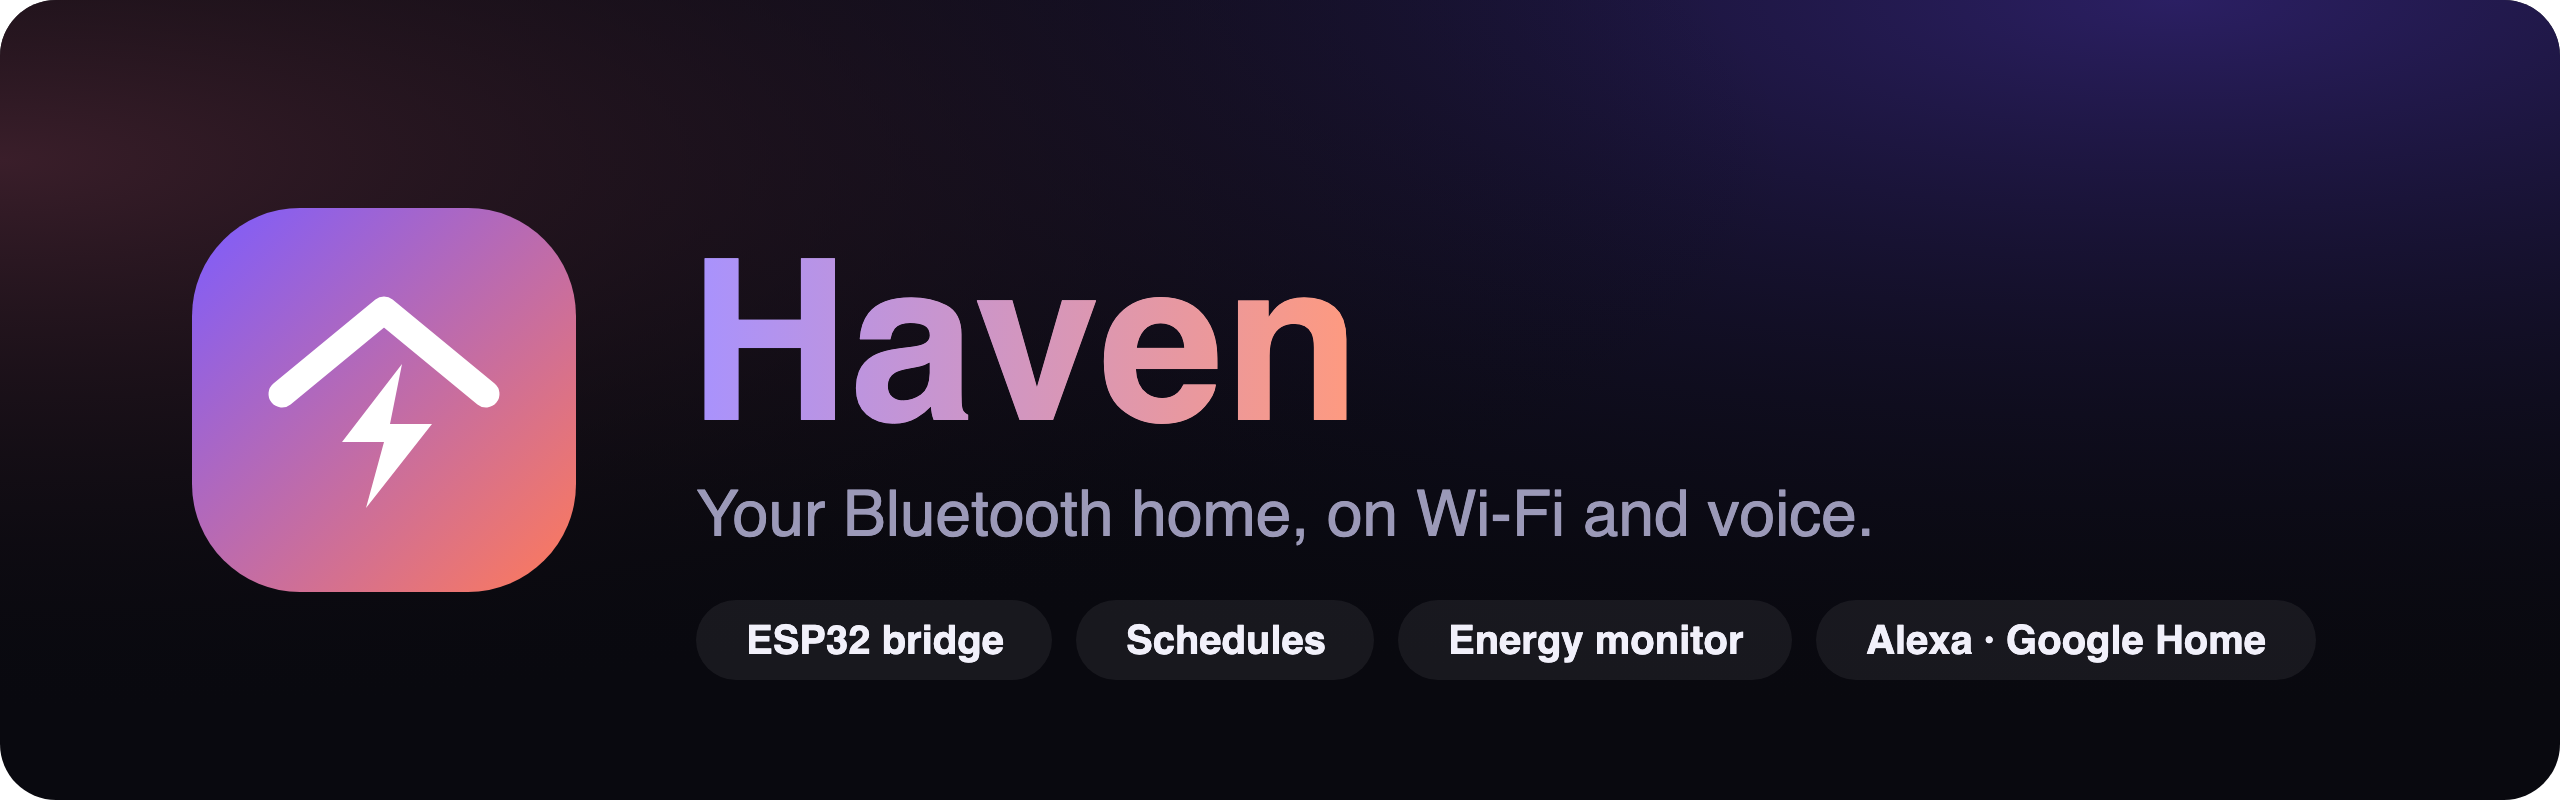
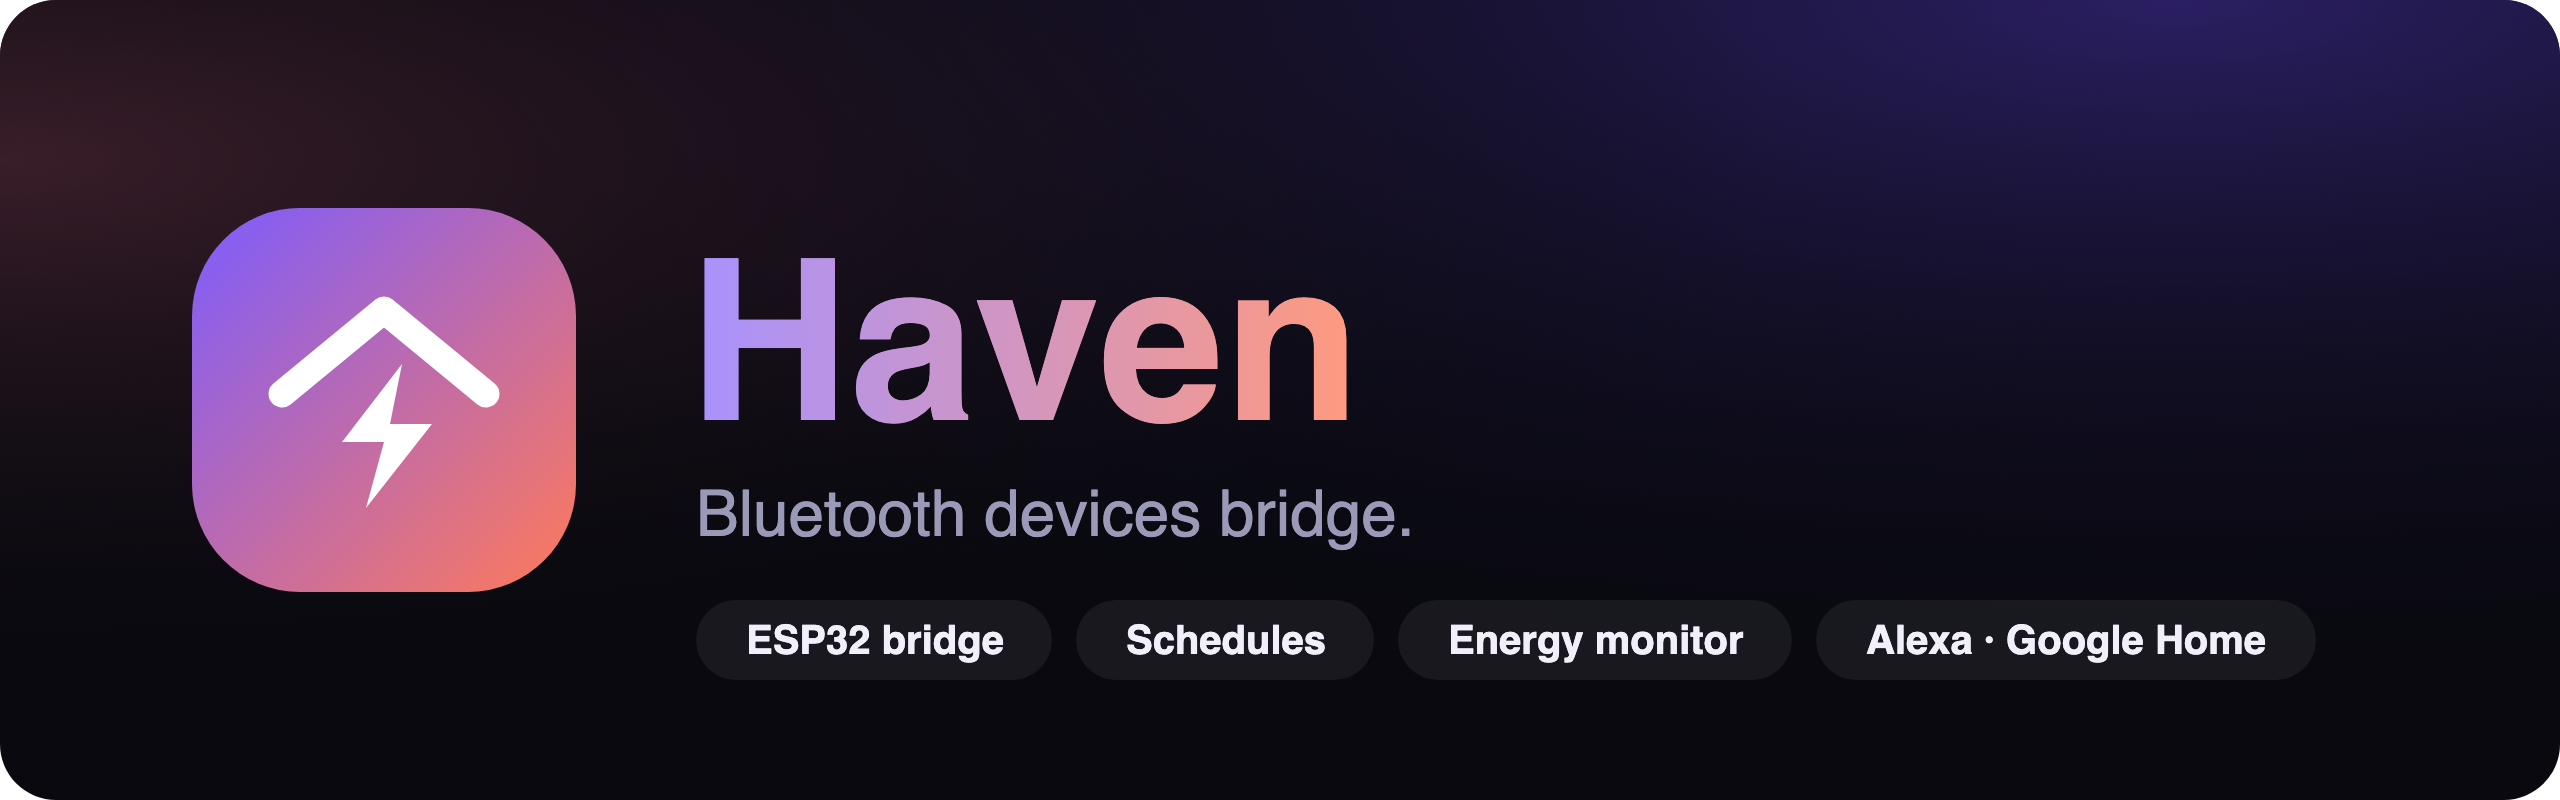
Tagline: Bluetooth devices bridge

Changed region(s): [[0.25, 0.5938, 0.7188, 0.6875]]

diff --git a/firmware/home_bridge/web_app.h b/firmware/home_bridge/web_app.h
@@ -18,7 +18,7 @@ const char kOgImage[] PROGMEM = R"svg(<svg xmlns="http://www.w3.org/2000/svg" vi
 <path d="M15 31 32 17l17 14" fill="none" stroke="#fff" stroke-width="4.5" stroke-linecap="round" stroke-linejoin="round"/>
 <path d="M35 26 25 39h7l-3 11 11-14h-7l2-10z" fill="#fff"/></g>
 <text x="400" y="300" font-family="Segoe UI,Roboto,Helvetica,Arial,sans-serif" font-size="120" font-weight="800" fill="#F1F0FA">Haven</text>
-<text x="404" y="380" font-family="Segoe UI,Roboto,Helvetica,Arial,sans-serif" font-size="40" fill="#9B99B8">Your Bluetooth home, on Wi-Fi and voice.</text></svg>)svg";
+<text x="404" y="380" font-family="Segoe UI,Roboto,Helvetica,Arial,sans-serif" font-size="40" fill="#9B99B8">Bluetooth devices bridge.</text></svg>)svg";
 
 const char kManifest[] PROGMEM = R"json({"name":"Haven","short_name":"Haven","description":"Control your Bluetooth plugs and lights from anywhere in the house.",
 "start_url":"/","display":"standalone","background_color":"#09090F","theme_color":"#09090F",
@@ -33,7 +33,7 @@ const char kApp[] PROGMEM = R"html(<!doctype html><html lang=en><head><meta char
 <meta name=apple-mobile-web-app-capable content=yes><meta name=mobile-web-app-capable content=yes>
 <meta name=apple-mobile-web-app-status-bar-style content=black-translucent><meta name=apple-mobile-web-app-title content=Haven>
 <meta property=og:type content=website><meta property=og:site_name content=Haven><meta property=og:title content="Haven">
-<meta property=og:description content="Your Bluetooth home, on Wi-Fi and voice."><meta property=og:image content="/og.svg">
+<meta property=og:description content="Bluetooth devices bridge."><meta property=og:image content="/og.svg">
 <meta name=twitter:card content=summary_large_image>
 <link rel=icon type="image/svg+xml" href="/icon.svg"><link rel=apple-touch-icon href="/icon.svg"><link rel=manifest href="/manifest.webmanifest">
 <style>
@@ -133,7 +133,7 @@ background:#232335;border:1px solid var(--line);font-weight:600;font-size:14px;t
 </style></head><body>
 <div id=splash><div class=sp><div class=sp-logo><i class=ring></i><i class=ring></i><svg id=splogo></svg></div>
 <div class=word><span>H</span><span style="animation-delay:.08s">a</span><span style="animation-delay:.16s">v</span><span style="animation-delay:.24s">e</span><span style="animation-delay:.32s">n</span></div>
-<div class=tag>Your Bluetooth home, on Wi-Fi.</div></div></div>
+<div class=tag>Bluetooth devices bridge.</div></div></div>
 <div class=wrap>
 <header class=bar id=bar><div class=logo id=barlogo></div><div class=brand><b>Haven</b><small><i class=dot id=bdot></i><span id=bsub>Connecting…</span></small></div>
 <button class=ib id=bnet title=Network onclick="go('network')"></button><button class=ib id=bmenu title=Menu onclick="toggleMenu(event)"></button>

diff --git a/README.md b/README.md
@@ -1,4 +1,4 @@
-<p align="center"><img src="docs/banner.svg" alt="Haven — your Bluetooth home, on Wi-Fi and voice" width="100%"></p>
+<p align="center"><img src="docs/banner.svg" alt="Haven — Bluetooth devices bridge" width="100%"></p>
 
 <p align="center">
   <img alt="ESP32" src="https://img.shields.io/badge/ESP32-Arduino%20core%203.3-7C5CFF?style=flat-square">
